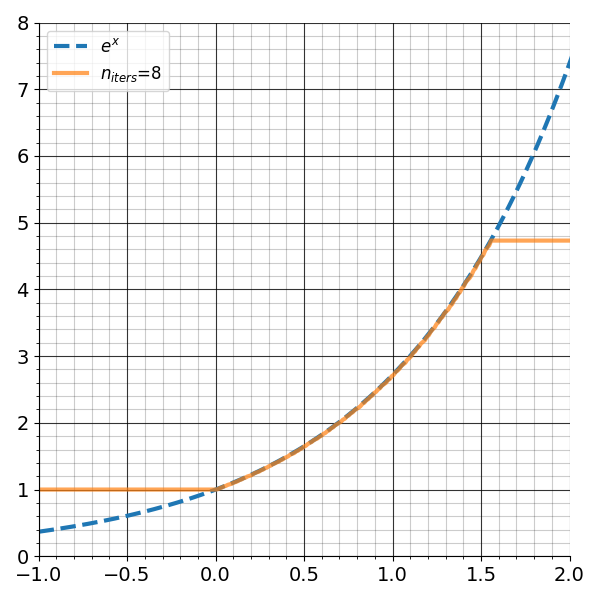
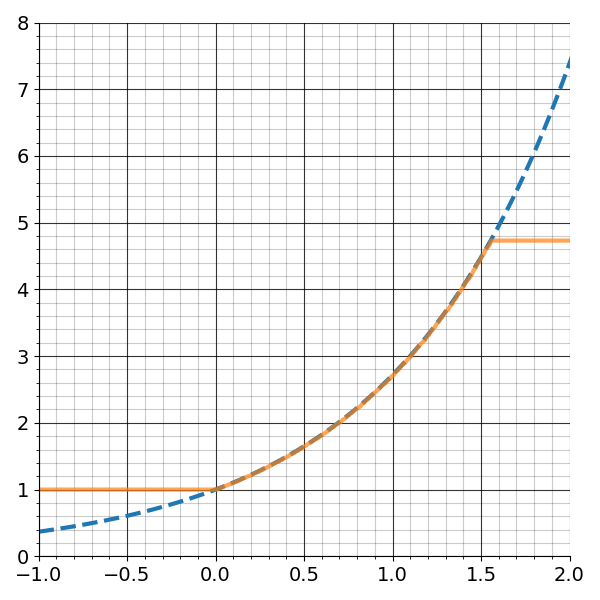
finish BKM

Changed region(s): [[0.06, 0.06, 0.3, 0.15]]

diff --git a/assets/bkm/main.py b/assets/bkm/main.py
@@ -28,44 +28,43 @@ def remove_spines(ax):
 def plot_bkm_vs_log():
     # plot bkm for 2, 4 and 8 iterations and compare against the true logarithm
     xs = np.linspace(1, 4.5, 500)
-    for n_iters in range(2, 9):
-        plt.figure(figsize=(6, 6))
-        plt.plot(xs, np.log(xs), "--", label=r"$\log(x)$")
+    plt.figure(figsize=(6, 6))
+    plt.plot(xs, np.log(xs), "--", label=r"$\log(x)$")
 
+    for n_iters in [2, 4, 8]:
         ys = [log(elem, n_iters=n_iters) for elem in xs]
         plt.plot(xs, ys, alpha=0.7, label=rf"$n_{{iters}}$={n_iters}")
 
-        remove_spines(plt.gca())
-        plt.legend(fontsize=12)
-        plt.xlim(0, 4.5)
-        plt.ylim(0, 1.5)
-        plt.grid(visible=True, which="major", color="k", linestyle="-", alpha=0.8)
-        plt.grid(visible=True, which="minor", color="k", linestyle="-", alpha=0.2)
-        plt.minorticks_on()
-        make_cartesian_plane(plt.gca())
-        plt.tight_layout()
-        plt.savefig(IMAGE_DIR / f"bkm_log_niters_{n_iters}.png")
+    remove_spines(plt.gca())
+    plt.legend(fontsize=12)
+    plt.xlim(0, 4.5)
+    plt.ylim(0, 1.5)
+    plt.grid(visible=True, which="major", color="k", linestyle="-", alpha=0.8)
+    plt.grid(visible=True, which="minor", color="k", linestyle="-", alpha=0.2)
+    plt.minorticks_on()
+    make_cartesian_plane(plt.gca())
+    plt.tight_layout()
+    plt.savefig(IMAGE_DIR / "bkm_lmode.png")
 
 
 def plot_bkm_vs_exp():
     # plot bkm for 2, 4 and 8 iterations and compare against the true logarithm
-    xs = np.linspace(1, 4.5, 500)
-    for n_iters in range(2, 9):
-        plt.figure(figsize=(6, 6))
-        plt.plot(xs, np.exp(xs), "--", label=r"$e^{x}$")
-
+    xs = np.linspace(1, 4.5, 10000)
+    plt.figure(figsize=(6, 6))
+    plt.plot(xs, np.exp(xs), "--", label=r"$e^{x}$")
+    for n_iters in [2, 4, 8]:
         ys = [exp(elem, n_iters=n_iters) for elem in xs]
         plt.plot(xs, ys, alpha=0.7, label=rf"$n_{{iters}}$={n_iters}")
 
-        remove_spines(plt.gca())
-        plt.legend(fontsize=12)
-        plt.xlim(1, 1.5)
-        plt.ylim(0, 5)
-        plt.grid(visible=True, which="major", color="k", linestyle="-", alpha=0.8)
-        plt.grid(visible=True, which="minor", color="k", linestyle="-", alpha=0.2)
-        plt.minorticks_on()
-        plt.tight_layout()
-        plt.savefig(IMAGE_DIR / f"bkm_exp_niters_{n_iters}.png")
+    remove_spines(plt.gca())
+    plt.legend(fontsize=12)
+    plt.xlim(1, 1.5)
+    plt.ylim(0, 5)
+    plt.grid(visible=True, which="major", color="k", linestyle="-", alpha=0.8)
+    plt.grid(visible=True, which="minor", color="k", linestyle="-", alpha=0.2)
+    plt.minorticks_on()
+    plt.tight_layout()
+    plt.savefig(IMAGE_DIR / "bkm_emode.png")
 
 
 def plot_bkm_artifacts():
@@ -76,7 +75,7 @@ def plot_bkm_artifacts():
     plt.plot(xs, np.log(xs), "--", label=r"$\log(x)$")
     plt.plot(xs, [log(elem, n_iters=n_iters) for elem in xs], alpha=0.8, label=rf"$n_{{iters}}$={n_iters}")
 
-    plt.legend()
+    # plt.legend()
     plt.ylim([-1, 2])
     make_cartesian_plane(plt.gca())
     plt.grid(visible=True, which="major", color="k", linestyle="-", alpha=0.8)
@@ -97,7 +96,6 @@ def plot_bkm_exp_artifacts():
     plt.plot(xs, ys, alpha=0.7, label=rf"$n_{{iters}}$={n_iters}")
 
     remove_spines(plt.gca())
-    plt.legend(fontsize=12)
     plt.xlim(-1, 2)
     plt.ylim(0, 8)
     plt.grid(visible=True, which="major", color="k", linestyle="-", alpha=0.8)
@@ -127,13 +125,16 @@ def plot_convergent_product():
     ys = 1 + 2.0**-xs
 
     plt.scatter(xs, np.cumprod(ys))
+    plt.ylabel([0, 5])
+    plt.xlabel(r"$N$", fontsize=14)
+    plt.ylabel(r"$\prod_{k=0}^{N} (1+2^{-k})^{d_k}$", fontsize=14)
     remove_spines(plt.gca())
     plt.tight_layout()
     plt.savefig(IMAGE_DIR / "cumulative_product.png")
 
 
 def plot_log_pi_bkm():
-    plt.figure(figsize=(10, 5))
+    plt.figure(figsize=(6, 6))
 
     x = np.pi
     log_x = 0
@@ -153,20 +154,13 @@ def plot_log_pi_bkm():
         else:
             rejected.append((k, tmp, log_x + LOGARITHM_LOOKUP[k]))
 
-    plt.subplot(121)
     plt.scatter([elem for elem, _, _ in accepted], [elem for _, elem, _ in accepted], marker="o", color="tab:blue")
-    plt.scatter([elem for elem, _, _ in rejected], [elem for _, elem, _ in rejected], marker="o", color="tab:red")
+    plt.scatter([elem for elem, _, _ in rejected], [elem for _, elem, _ in rejected], marker="x", color="tab:red")
     plt.axhline(x, linestyle="--", alpha=0.5)
     plt.ylim([0, 4])
-    plt.ylabel(r"$\prod_{k=0}^{N-1} (1+2^{-k})^{d_k}$", fontsize=14)
+    plt.xlabel(r"$N$", fontsize=14)
+    plt.ylabel(r"$\prod_{k=0}^{N} (1+2^{-k})^{d_k}$", fontsize=14)
     remove_spines(plt.gca())
-
-    plt.subplot(122)
-    plt.axhline(np.log(x), linestyle="--", alpha=0.5)
-    plt.scatter([elem for elem, _, _ in accepted], [elem for _, _, elem in accepted], marker="o", color="tab:blue")
-    plt.scatter([elem for elem, _, _ in rejected], [elem for _, _, elem in rejected], marker="o", color="tab:red")
-    plt.ylim([0, 1.5])
-    plt.ylabel(r"$\sum_{k=0}^{N-1}d_k\log(1+2^{-k})$", fontsize=14)
 
     plt.tight_layout()
     remove_spines(plt.gca())
@@ -179,7 +173,7 @@ def main():
     plot_bkm_vs_exp()
     plot_bkm_artifacts()
     plot_bkm_exp_artifacts()
-    plot_approx_fraction()
+    # plot_approx_fraction()
     plot_log_pi_bkm()
 
 

diff --git a/assets/bkm/bkm.py b/assets/bkm/bkm.py
@@ -34,13 +34,14 @@ def log_alt(x: float, n_iters: int = 30) -> float:
 
 
 def exp(x: float, n_iters: int = 30) -> float:
-    log_x = 0
-    exp_approx = 1
+    # y = e^x
+    log_y = 0
+    y_hat = 1
 
     for k in range(n_iters):
-        tmp = log_x + LOGARITHM_LOOKUP[k]
+        tmp = log_y + LOGARITHM_LOOKUP[k]
         if tmp < x:
-            log_x = tmp
-            exp_approx = exp_approx + exp_approx / 2**k  # x * (1 + 2**-k)
+            log_y = tmp
+            y_hat = y_hat + y_hat / 2**k  # x * (1 + 2**-k)
 
-    return exp_approx
+    return y_hat

diff --git a/_drafts/2025-04-01-bkm.md b/_drafts/2025-04-01-bkm.md
@@ -15,12 +15,10 @@ header:
 ---
 
 In this article we'll explore yet another method for accurately calculating exponentials.
-Similar in spirit to [CORDIC](../cordic), the Bajard-Kla-Muller (BKM) algorithm is a simple procedure that is friendly to hardware without floating point units (FPUs) as it involves only additions, multiplications, and bit-shifts.
+Similar in spirit to [CORDIC](../cordic), the Bajard-Kla-Muller (BKM) algorithm is a simple procedure that is friendly to hardware without floating point units (FPUs).
+Unlike using the Taylor series which involves expensive divisions, BKM involves only additions, multiplications, and bit-shifts.
 
-- explain basic intuition of the algo as trying to build up the number
-- show worked example for computing logarithm of pi
-- explain how the method only works for numbers in a certain range
-- explain how BKM can be used to compute the exponential
+In this article, we'll first explore how BKM can be used to compute logarithms, then show how the same idea can be used to compute exponentials.
 
 ## Logarithmic BKM
 
@@ -28,39 +26,40 @@ We'll start with computing logarithms using the BKM algorithm in so-called _L_-m
 The basic idea is to represent the number we want to compute the logarithm of as the product of other numbers which we _do_ know the logarithm of.
 
 $$
-x = \prod_{k=0}^n a_k
+x = \prod_{k=0}^N a_k
 $$
 
 Using the property $$\log(ab) = \log(a) + \log(b)$$, we can compute the logarithm as
 
 $$
-\log x = \sum_{k=1}^n \log a_k
+\log x = \sum_{k=1}^N \log a_k
 $$
 
-At first glance, this seems to have made the problem worse.
+This reformulation appears to increase complexity rather than reduce it.
 Instead of computing the logarithm of a single number $$x$$, we now need to compute the logarithm of $$n$$ different numbers.
 
-But the key idea behind the algorithm is that the set of unique values in the sequence will be drawn from a small handful of numbers. This allows us to compute values of $$\log a_k$$ offline (using some other method) and then look them up in a table as needed.
+The critical insight of the algorithm is that the sequence $$a_k$$ comprises a finite set of values, enabling efficient computation through lookup tables.
+This allows us to compute values of $$\log a_k$$ offline (using some other method) and then look them up in a table as needed.
 
 ### Worked Example
 
 To see how this works in practice, it's best to illustrate with a concrete example.
 
 Suppose we want to compute $$\log 3.14$$.
-We start by initialising a variable $$x_{approx}=1$$.
-We then multiply this by 2 to get $$x_{approx}=2$$.
-Since this is below our desired value of $$x=3.14$$, we'll try increasing the value again but instead of doubling it, we'll multiply by 1.5.
-This gives a new value of $$x_{approx}=3$$ which is still below the desired value.
+We start by initialising a variable $$\hat{x}=1$$.
+We then multiply this by 2 to get $$\hat{x}=2$$.
+Since this is below our desired value of $$x=3.14$$, we'll try increasing the value again but instead of doubling it, we'll multiply 1.5.
+This gives a new value of $$\hat{x}=3$$ which is still below the desired value.
 
-We'll try increasing our value again, this time by a factor of 1.25 which gives $$x_{approx}=3.75$$.
-Now our value is too large so we leave $$x_{approx}=3$$.
-We then try multiplying by 1.125 which gives $$x_{approx} = 3.375$$.
+We'll try increasing our value again, this time by a factor of 1.25 which gives $$\hat{x}=3.75$$.
+Now our value is too large so we leave $$\hat{x}=3$$.
+We then try multiplying by 1.125 which gives $$\hat{x} = 3.375$$.
 This is still larger than our desired value of 3.14 so we skip this update as well.
-Next we try multiplying by 1.0625 which gives $$x_{approx} = 3.1875$$, which is again too large so we skip the update.
+Next we try multiplying by 1.0625 which gives $$\hat{x} = 3.1875$$, which is again too large so we skip the update.
 
-We try multiplying $$x_{approx}=3$$ by 1.03125 which gives 3.09375.
+We try multiplying $$\hat{x}=3$$ by 1.03125 which gives 3.09375.
 This is less than our target value so we accept the update.
-The procedure continues this way either for a finite number of iterations or until $$x_{approx}$$ is within a desired tolerance of the target.
+The procedure continues this way either for a finite number of iterations or until $$\hat{x}$$ is within a desired tolerance of the target.
 
 The approximation can be concisely written as
 
@@ -69,30 +68,31 @@ x = \prod_{k=0}^N (1+2^{-k})^{d_k}
 $$
 
 where $$d_k$$ depends on the particular input $$x$$.
-Specifically, $$d_k$$ is 0 if $$a_k$$ is needed in the approximation of $$x$$ and 0 otherwise.
+We set $$d_k = 1$$ if $$\hat{x} \cdot (1+2{−k})\le x$$ and $$d_k=0$$ otherwise, where $$\hat{x}$$ is our current approximation.
 Given this equivalent expression for $$x$$, $$\log x$$ can be computed as
 
 $$
 \log x = \sum_{k=0}^N d_k \log(1+2^{-k})
 $$
 
-Figure 1 shows the steps in building up $$x_{approx}$$ for $$x=3.14$$.
+Figure 1 shows the steps in building up $$\hat{x}$$ for $$x=3.14$$.
 
 <figure class>
     <a href="/assets/bkm/images/log_pi.png"><img src="/assets/bkm/images/log_pi.png"></a>
-    <figcaption>Figure 1: Approximation of 3.14 using factors of the form, one plus reciprocal powers of 2. The blue indicate accepted points in the approximation while red crosses are ones which were rejected for overshooting the target value 3.14</figcaption>
+    <figcaption>Figure 1: Approximation of 3.14 using factors of the form, one plus reciprocal powers of 2. The blue points indicate accepted values in the approximation while red crosses are ones which were rejected for overshooting the target value 3.14</figcaption>
 </figure>
 
 ### Code
 
 The main benefit of BKM is that it can be implemented easily on hardware without floating point units.
-If implemented using fixed precision arithmetic, the $$2^{-k}$$ can be implemented as a $$k$$-bit right shift so that no divisions are necessary.
+If implemented using fixed precision arithmetic, the multiplication by $$2^{-k}$$ can be implemented as a $$k$$-bit right shift so that no divisions are necessary.
 
 The following python code implements the algorithm using floating point to avoid getting lost in the details of fixed point implementations.
 
 {% highlight python %}
 import math
 
+# table would be cached in read only memory in a real impl
 LOGARITHM_LOOKUP = [math.log(1 + 2.0**-k) for k in range(100)]
 
 def log(x: float, n_iters: int = 30):
@@ -102,7 +102,8 @@ def log(x: float, n_iters: int = 30):
     x_hat = 1
     factor = 1
     for k in range(n_iters):
-        tmp = x_hat + x_hat * factor  # x * (1 + 2**-k)
+        # Compute the candidate for x_hat * (1 + 2^{-k})
+        tmp = x_hat + x_hat * factor
         if tmp <= x:
             log_x += LOGARITHM_LOOKUP[k]
             x_hat = tmp
@@ -118,7 +119,7 @@ Note how the approximation is piecewise constant (the number of levels is $$2^{n
     <figcaption>Figure 2: L-mode BKM used to approximate the logarithm using different numbers of iterations. At 8 iterations, the approximation is already quite good.</figcaption>
 </figure>
 
-If we zoom out on this approximation, we see there's actually a problem.
+If we zoom out on this approximation, we see the algorithm only converges for a fixed interval of inputs as whown in figure 3.
 
 <figure class>
     <a href="/assets/bkm/images/bkm_log_artifacts.png"><img src="/assets/bkm/images/bkm_log_artifacts.png"></a>
@@ -126,7 +127,14 @@ If we zoom out on this approximation, we see there's actually a problem.
 </figure>
 
 This issue does not go away simply by choosing $$n_{iters}$$ to be larger but rather is a fundamental limitation of BKM.
-By approximating our argument as $$x =\prod_{k=0}^N (1+2^{-k})^{d_k}$$, the maximum value we can achieve (i.e. all $$d_k=1$$) is ~4.768 as shown in figure 4.
+
+By approximating our argument as
+
+$$x \approx \prod_{k=0}^N (1+2^{-k})^{d_k}$$
+
+The maximum value we can achieve (with $$d_k=1$$ for all $$k$$) $$\prod_{k=0}^N (1+2^{−k})\approx 4.768$$
+as $$N\rightarrow \infty$$, which is the limit of this infinite product.
+the maximum value we can achieve (i.e. all $$d_k=1$$) is ~4.768 as shown in figure 4.
 
 <figure class>
     <a href="/assets/bkm/images/cumulative_product.png"><img src="/assets/bkm/images/cumulative_product.png"></a>
@@ -142,24 +150,74 @@ This process is called _argument reduction_.
 ## Exponential BKM
 
 In the previous section we discussed how BKM is used to compute the natural logarithm.
-Using a very similar procedure, it can be adapted to compute the exponential as well (a.k.a E-mode BKM).
+Using a very similar procedure, it can be adapted to compute the exponential as well (E-mode BKM).
+
+We'll try to approximate the input as
+
+$$ x \approx \sum_{k=0}^{N} d_k \log (1+2^{-k})$$
+
+where $$d_k \in \{0,1\}$$.
+The exponential is
+
+$$e^x \approx \prod_{k=0}^N (1+2^{-k})^{d_k}$$
+
+which is almost exactly the same equation from L-mode BKM!
+
+The E-mode implementation is shown in Python below
+
+{% highlight python %}
+def exp(x: float, n_iters: int = 30) -> float:
+    # y = e^x
+    log_y = 0
+    y_hat = 1
+
+    for k in range(n_iters):
+        tmp = log_y + LOGARITHM_LOOKUP[k]
+        if tmp < x:
+            log_y = tmp
+            y_hat = y_hat + y_hat / 2**k  # x * (1 + 2**-k)
+
+    return y_hat
+{% endhighlight %}
+
+As a concrete example of this algorithm, consider trying to compute $$e^{0.5}$$.
+We start with $$\hat{y}= 1$$ which means $$\log \hat{y} = 0$$.
+We then add $$\log 2 \approx 0.693$$ to our approximate logarithm but this would exceed our target value of 0.5 so we skip this update and keep $$\hat{y} = 1$$ and $$\log \hat{y} =0$$.
+
+On the second iteration we try adding $$\log 1.5 \approx 0.405$$ which does not exceed our target of 0.5 so we update $$\log \hat{y} = 0.405$$ and $$\hat{y} = 1.5$$.
+On the third iteration we try adding $$\log 1.25 \approx 0.223$$ but this would make $$\log \hat{y} = 0.63$$ which would exceed 0.5 so we skip this update.
+The fourth iteration also leads to a skip since $$\log 1.125 \approx 0.118$$.
+
+The fifth iteration however uses $$\log 1.0625 \approx 0.0606$$ which when added to $$\log \hat{y}$$ gives $$\approx 0.466$$ which is below the input of 0.5 so we update $$\hat{y} = 1.5 * 1.0625 = 1.59375$$.
+
+The algorithm proceeds in this way, continually attempting to add $$\log (1+2^{-k})$$ to $$\log \hat{y}$$ and checking if it would exceed the input $$x$$.
+
+Figure 5 shows how the accuracy of E-mode BKM improves as the number of iterations increases.
 
 <figure class>
     <a href="/assets/bkm/images/bkm_emode.png"><img src="/assets/bkm/images/bkm_emode.png"></a>
-    <figcaption>Figure 4: The product approximation asymptotes around 4.768.</figcaption>
+    <figcaption>Figure 5: Comparison of 2, 4, and 8 iterations against the true value of the exponential.</figcaption>
 </figure>
+
+Similar to the L-mode algorithm, there is only a small range of values for which the algorithm will converge to the correct answer.
+Figure 6 shows how outside the interval $$[0, 1.562)$$, BKM will fail to compute a correct answer.<sup>[1](#footnote1).
+Using the property $$e^{a+b} = e^{a} e^{b}$$, we can bring arguments into the range of use for E-mode BKM.
+
 <figure class>
     <a href="/assets/bkm/images/bkm_exp_artifacts.png"><img src="/assets/bkm/images/bkm_exp_artifacts.png"></a>
-    <figcaption>Figure 4: The product approximation asymptotes around 4.768.</figcaption>
+    <figcaption>Figure 6: E-mode BKM is only valid for inputs between 0 and ~1.562.</figcaption>
 </figure>
-<!-- <figure class="half">
-    <a href="/assets/cordic/images/circular_angle_01.png"><img src="/assets/cordic/images/circular_angle_01.png"></a>
-    <a href="/assets/cordic/images/circular_angle_02.png"><img src="/assets/cordic/images/circular_angle_02.png"></a>
-    <figcaption>Figure 8: Area of sectors for different theta.</figcaption>
-</figure> -->
 
 ## Conclusion
 
+The BKM algorithm is an ingenious method for efficient computation of exponentials and logarithms using only additions, multiplications, and bit-shifts.
+Admitting the use of complex numbers, BKM can even be adapted to compute various trigonometric functions as well.
+
+## References
+
+1. The [original paper](https://ens-lyon.hal.science/ensl-00086894/file/BKM94.pdf)
+2. [Wiki article](https://en.wikipedia.org/wiki/BKM_algorithm)
+
 ## Footnotes
 
-<a name="footnote1">1</a>: The determinant of the matrix is $$\cosh^2 \theta - \sinh^2 \theta = 1$$ meaning that areas are preserved. The matrix is _not_ orthogonal however so lengths of vectors are not preserved by the transformation.
+<a name="footnote1">1</a>: The interval comes directly from the logarithm of the interval endpoints for L-mode BKM, namely [1, 4.768]
